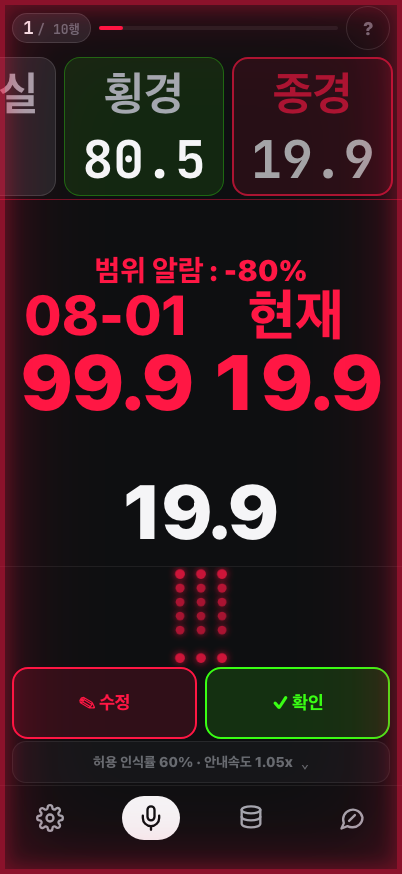
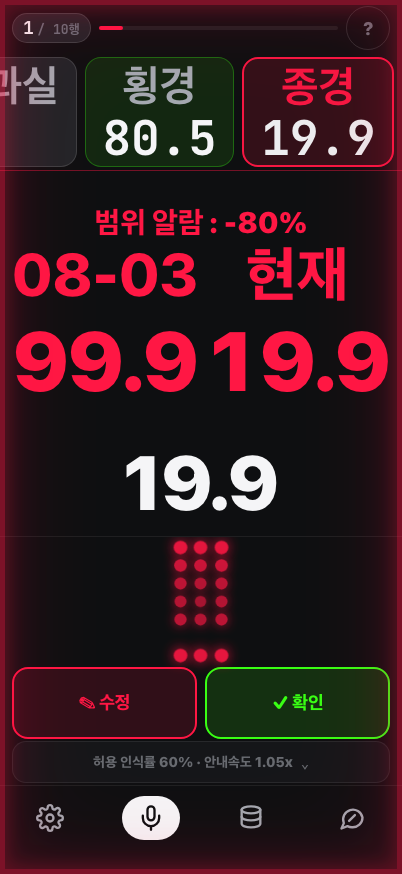
fix(voice): free the alarm compare fit from its floor (§C0)
CenterStage 알람 전용 <style>의 line-height: 1 !important가 글리프 초과(폰트
비례 2~5px > 높이 관용 1px)를 만들어 fitGroups의 높이 판정을 전 배율에서
실패시켰고, 이진탐색이 low=0.25에서 즉시 이탈해 compare 슬롯이 절대 하한
(22/30px)에 갇혀 있었다. 그 강제를 제거해 fit이 살아났다(375에서 값 30→60.6px
· 640 태블릿 9자리 31→48.7px · 402→480 성장 22→22 → 61→72).

column-gap: 0 !important도 함께 제거한다(리뷰② 중대) — 위로 열린 fit은 잉크를
트랙 경계까지 키우므로(경계 추구 평형) 거터가 0이면 등길이 값쌍이 ~2px로
맞붙어 한 숫자로 읽힌다(실캡처 "99.919.9"). 인라인 clamp(4px,1.5vw,12px)가
살아나 등길이 쌍 실측 간격 6.3px@402 / 11.7px@640.

- v044-alarm-compare-fit: characterization → 회귀 가드 승격(파일 자신의 지시).
  핵심 압력 = 값 > 35px(하한 이탈) — 바닥 고정 재발을 유일하게 잡는다
- v0440-alarm-fit: @pending-lineheight 기계 제거, 단언 A·B·C 정식 승격,
  등길이 999→199 케이스 + 잉크 간격 ≥ 4px 오라클 신설
- trend-alert: @pending-c0 제거 (390×568 무스크롤은 fit 배선+1.2 체제 첫 실행)
- 재발 방지 계약 주석: line-height·column-gap 재강제 금지 (CenterStage) ·
  인라인 line-height 무시 현상 해명 (AnomalyAlertPopup, 0건 사유는 미확정 유지)

판정: 기준선 직렬 2회(120P/3F 동일) vs 수정 직렬 2회 — 신규 재현 0 · timeout 0.
08-04의 「즉시 회귀」는 병렬 부하 시그니처(timeout 4건 + 기록된 flaky 줄들)로
재현·설명됐다. 상세: workspace_teamops/deliverables/2026-08-04-survey-011-v0440-C0-fix.md

Claude-Session: https://claude.ai/code/session_01WT7Ad9E1PHj75h9t94DLht

diff --git a/tests/v044-alarm-compare-fit.spec.ts b/tests/v044-alarm-compare-fit.spec.ts
@@ -1,39 +1,24 @@
 /**
- * v0.44.0 A2 — 🔴 **§C0 인수인계 오라클: 알람 카드 compare 슬롯에 fit 배선이 없다.**
+ * v0.44.0 §C0 — 🟢 **정상 회귀 가드로 승격판(2026-08-04). 알람 compare fit이 살아 있는지 잰다.**
  *
- *  ── 왜 이 파일이 있나 ────────────────────────────────────────────────────────
- *  A0가 규명한 근본원인(넘친 것을 넘쳤다고 판정 못함)을 A1이 `fitGroup.ts`에서,
- *  A2가 `useFitScale.ts`에서 닫았다. 그런데 **알람 카드에서는 판정이 정확해져도
- *  값이 줄지 않는다** — `heroLayout.ts`의 두 상수가 fit 변수를 **소비하지 않기 때문이다**:
+ *  ── 이력 ────────────────────────────────────────────────────────────────────
+ *  A2가 「compare 슬롯에 fit 배선이 없다」를 고정하는 characterization으로 만들었고
+ *  (원문: `git log -p` 또는 A0-probe.md §7-4), c0-r1이 배선을 넣은 뒤에도 fit이 **바닥
+ *  (0.25)에 갇혀** 있었다 — 원인은 CenterStage 알람 `<style>`의 `line-height: 1 !important`
+ *  (글리프가 line box를 넘어 만든 초과가 `overflowsHeight`를 전 배율에서 true로 만들어
+ *  이진탐색이 low에서 즉시 이탈). **그 강제를 제거해 §C0가 완결됐고**(2026-08-04),
+ *  characterization 단언을 뒤집어 이 승격판이 됐다.
  *
- *    STATE_TYPE.alarmLabel   = 'max(17px, calc(clamp(22px, min(6.6vw,3.6vh), 36px) * var(--fit-lo,1)))'
- *                                                                                  ↑ 쓴다
- *    STATE_TYPE.compareLabel = 'max(22px, 13.93vw)'   ← 🔴 var(--fit-*) 없음
- *    STATE_TYPE.compareValue = 'max(30px, 19.4vw)'    ← 🔴 var(--fit-*) 없음
+ *  ── 이 파일이 재는 것 (375×667, 값쌍 120.5→100) ─────────────────────────────
+ *   1. compare 값이 배정 폭을 넘지 않는다(잉크 우측 초과 ≤ 0.5px).
+ *   2. 🔑 **compare 값이 절대 하한(30px)에서 떨어져 실제로 커졌다**(> 35px — 실측 60.6px).
+ *      바닥 고정이 재발하면 여기가 red다. 겹침·배정폭 단언(A·B)은 바닥 크기로도
+ *      만족되므로 **이 단언만이 재발을 잡는다**(v0440-alarm-fit 단언C와 같은 원리).
+ *   3. headline이 하한(17px)에 붙어 있지 않다(> 17.5px).
  *
- *  결과(375×667 실측, A2 처방 전후 대조):
- *    - 처방 전: `--fit-lo` **1.12**(첫 단계) · headline **26.89px** · next-value 우측 초과 **+33.344px**
- *    - 처방 후: `--fit-lo` **0.13**(최저 단계) · headline **17px** · 초과 **+33.344px (그대로)**
- *
- *  즉 fit이 초과를 **보게** 되자 단계를 끝까지 내렸는데, 정작 넘치는 `compareValue`는
- *  `--fit-lo`를 안 쓰므로 크기가 안 변했다(19.4vw = 375px에서 72.75px 고정).
- *  🔴 **못 고치는 초과를 보고, 고칠 수 있는 headline만 하한까지 깎은 것이다.**
- *
- *  ── 이 파일이 재는 것 ────────────────────────────────────────────────────────
- *  **현 결함 상태를 그대로 고정하는 characterization test다.**
- *   - **지금**: 초과가 실재하고(> 1px) headline이 하한(17px)에 붙어 있다 → 둘 다 참 → green.
- *   - 🔴 **§C0가 `compareValue`/`compareLabel`에 fit 변수를 배선하면**: compare가 줄어
- *     초과가 해소되고 headline이 하한에서 떨어진다 → 단언이 깨지며 **red** →
- *     **그때가 이 파일을 정상 오라클로 승격하거나 지울 때다**(단언 메시지가 그 지시를 담는다).
- *
- *  🔴 **`test.fail()`을 쓰지 않는다.** 그걸 쓰면 **어떤 실패든** 「예상된 실패」로 green이 된다 —
- *  `boot()`가 시작 버튼을 못 찾거나 `triggerAnomaly`가 타임아웃해도 green이다. 이 harness는
- *  실제로 그렇게 깨진 적이 있다(390×568에서 `text=음성 입력 시작` 클릭 타임아웃 → 402로 띄운 뒤
- *  줄이는 우회를 넣었다). 그러면 §C0 배선이 들어와도 **아무 신호가 안 나는 영구 green**이 된다 —
- *  이 파일이 막으려던 바로 그 실패다. characterization 형태는 harness가 깨지면 **red**가 난다.
- *
- *  이 구조를 쓰는 이유: 말로 적은 제약은 다음 회차에 안 지켜진다(`UI-e2` 교훈).
- *  **오라클이 된 제약만 남는다.** 배선이 들어오는 순간 CI가 알려준다.
+ *  🔴 **`test.fail()`을 쓰지 않는다.** 그걸 쓰면 어떤 실패든 「예상된 실패」로 green이 된다 —
+ *  harness가 깨져도(boot 실패·trigger 타임아웃) 신호가 없는 영구 green이 된다.
+ *  아래 harness 건전성 단언(>0 측정 확인)이 그 경로를 막는다.
  *
  *  ⚠ 기대값은 **리터럴**이다(`STATE_TYPE`을 import하지 않는다). 제품 상수를 빌리면
  *     둘을 같은 diff로 바꿀 때 통과해버려 파손을 감춘다(COMMON §4).
@@ -46,9 +31,8 @@ test.setTimeout(120_000);
 /** `STATE_TYPE.alarmLabel`의 하한. 리터럴로 박는다 — 제품 상수를 import하지 않는다. */
 const ALARM_LABEL_FLOOR_PX = 17;
 
-// 🔴 `@pending-c0` — **의도된 red다. 회귀로 세지 마라.** 제목의 「§C0 대기」는 사람만 읽는다 —
-//    기계가 거르려면 태그가 있어야 한다. 👉 **§C0가 끝나면 이 태그를 뗀다.**
-test('🔴 §C0 대기 — 알람 compare 슬롯에 fit 배선이 없어 headline이 하한에 갇힌다(375×667) @pending-c0', async ({ page }) => {
+// 🟢 §C0 완결(2026-08-04) — `@pending-c0` 태그를 떼고 단언을 뒤집은 승격판이다(위 docstring).
+test('§C0 회귀 가드 — 알람 compare fit이 살아 있다: 안 넘침 · 하한 이탈(375×667)', async ({ page }) => {
   await boot(page, { width: 375, height: 667 });
   await triggerAnomaly(page);
   await page.waitForTimeout(300);
@@ -81,16 +65,18 @@ test('🔴 §C0 대기 — 알람 compare 슬롯에 fit 배선이 없어 headlin
   expect(m.nextValueFontPx, 'next-value를 실제로 측정했다').toBeGreaterThan(0);
   expect(m.nextValueOverflowRightPx, 'next-value 초과를 실제로 측정했다').not.toBeNull();
 
-  // ── 🔴 현 결함 상태 고정 ────────────────────────────────────────────────────
-  // 이 두 단언은 **지금 참이고, §C0 배선이 들어오면 거짓이 된다.** 깨지는 것이 목적이다.
+  // ── 🟢 §C0 완결 상태 가드 (승격판 2026-08-04) ──────────────────────────────
   expect(
     m.nextValueOverflowRightPx!,
-    '🔴 §C0가 compare 슬롯에 fit 변수를 배선하면 이 초과가 사라진다 — '
-    + '그때 이 단언이 red가 나면 정상이다. 이 파일을 정상 오라클로 승격하거나 지워라.',
-  ).toBeGreaterThan(1);
+    'compare 값이 배정 폭을 넘지 않는다(잉크 우측 초과 ≤ 0.5px)',
+  ).toBeLessThanOrEqual(0.5);
+  expect(
+    m.nextValueFontPx,
+    '🔑 compare 값이 절대 하한(30px)에서 떨어져 실제로 커졌다 — 바닥 고정이 재발하면 '
+    + '여기가 red다(겹침·배정폭 단언은 바닥 크기로도 만족되므로 이 단언만이 재발을 잡는다)',
+  ).toBeGreaterThan(35);
   expect(
     m.headlineFontPx,
-    '🔴 §C0 배선이 들어오면 초과가 해소돼 fit이 바닥까지 갈 이유가 없어지고 '
-    + 'headline이 하한에서 떨어진다 — 그때 이 단언이 red가 나면 정상이다.',
-  ).toBeLessThanOrEqual(ALARM_LABEL_FLOOR_PX + 0.5);
+    'headline이 하한에 붙어 있지 않다',
+  ).toBeGreaterThan(ALARM_LABEL_FLOOR_PX + 0.5);
 });

diff --git a/src/components/voice/CenterStage.tsx b/src/components/voice/CenterStage.tsx
@@ -14,7 +14,22 @@ import { T } from '../../tokens';
 
 /** 금지된 알람 카드 내부 구현에 레이아웃 책임을 다시 섞지 않고, 중앙 stage가 공개 testid 계약을
  *  2열(라벨 1행 / 값 2행)로 배치한다. 인라인 style보다 우선해야 해서 이 범위 안에서만 `!important`를
- *  쓴다. 값/라벨 타이포는 `STATE_TYPE`의 열린 폭 비례 계약이 계속 맡는다. */
+ *  쓴다. 값/라벨 타이포는 `STATE_TYPE`의 열린 폭 비례 계약이 계속 맡는다.
+ *
+ *  🔴 **`line-height`를 이 블록에 다시 넣지 마라**(§C0, 2026-08-04). 종전 `line-height: 1
+ *  !important`가 인라인 1.2(임계 1.15 위 — AnomalyAlertPopup `COMPARE_LINE_HEIGHT`)를 덮어
+ *  글리프가 line box를 넘었고, 그 초과가 `useFitGroup`의 높이 판정을 전 배율에서 실패시켜
+ *  compare 슬롯이 절대 하한(22/30px)에 갇혔다(제보 8건 화면의 잔여 원인). 제거로 fit이
+ *  살아났다(375에서 값 30→60.6px, 오라클: v044-alarm-compare-fit · v0440-alarm-fit 단언C).
+ *
+ *  🔴 **`column-gap` 강제도 두지 마라**(리뷰② 실증, 2026-08-04). fit은 잉크를 트랙 경계까지
+ *  키우므로(경계 추구 평형) 거터가 0이면 등길이 값쌍이 ~2px 간격으로 맞붙어 한 숫자로
+ *  읽힌다(실캡처 "99.919.9"). 팝업 인라인 `columnGap: clamp(4px,1.5vw,12px)`가 최소 간격을
+ *  보장한다. 오라클: v0440-alarm-fit 단언A의 잉크 간격 ≥ 4px.
+ *
+ *  ⚠ 이 `<style>`은 알람 분기에서만 DOM에 존재한다 — 스타일 조사는 알람을 띄운 상태에서
+ *  하라. (08-03 순회가 0건을 본 이유는 미확정이다 — 알람 밖 순회였거나 CORS 차단 시트에서
+ *  순회가 끊겼을 수 있다. A0-probe.md §8-4) */
 const ALARM_TWO_COLUMN_LAYOUT = `
   [data-central-state="alarm"] [data-testid="anomaly-alert"] {
     padding-block: 0 !important;
@@ -25,7 +40,6 @@ const ALARM_TWO_COLUMN_LAYOUT = `
     grid-template-columns: repeat(2, minmax(0, 1fr)) !important;
     grid-template-rows: auto auto !important;
     width: 100% !important;
-    column-gap: 0 !important;
     row-gap: 0 !important;
     overflow: hidden !important;
   }
@@ -50,7 +64,6 @@ const ALARM_TWO_COLUMN_LAYOUT = `
     justify-self: center !important;
     text-align: center !important;
     color: ${T.red} !important;
-    line-height: 1 !important;
   }
 `;
 

diff --git a/src/components/voice/AnomalyAlertPopup.tsx b/src/components/voice/AnomalyAlertPopup.tsx
@@ -174,17 +174,15 @@ function formatCompareDate(raw?: string): string {
  *
  *  ⚠ **`ExitConfirmInline.tsx:19` · `VoiceHero.tsx:341`이 이미 1.15를 쓴다** — 같은 계열이다.
  *
- *  🔴 **이 선언은 현재 런타임에서 효과가 없다. 그래도 되돌리지 않았다.**
- *  이 4개 요소(`anomaly-{prev,next}-{label,value}`)에서 **인라인 `line-height`가 무시되는
- *  현상**이 있다 — DOM `style` 속성과 CSSOM에는 `1.2`가 들어 있는데 computed는 `font-size`와
- *  같은 값(ratio 1.0)으로 나오고, `!important`를 붙일 때만 적용된다. 원인 **미확정**이며
- *  후보 10가지를 소거했다(CSS 규칙 0건 · 폰트 · 굵기 · `font-size` 형태 8종 · 애니메이션 0건 ·
- *  적용 순서/시점). 🔑 **같은 `style` 문자열의 `cloneNode` 복제본은 정상 작동한다.**
- *  전체 기록과 다음 조사 출발점: `Deliverables/2026-08-03-survey-011-v0440-A0-probe.md` §8.
- *
- *  **되돌리지 않은 이유:** 값 `1.2`는 실측 임계(1.15) 기준으로 옳고 **해가 없다**(효과가 없을
- *  뿐 회귀도 없다 — 블래스트 실측 완료). 되돌리면 다음 사람이 `1.02`를 보고 **같은 조사를
- *  처음부터 반복한다.** 무시 현상이 풀리는 순간 이 값이 그대로 살아난다.
+ *  🟢 **「인라인 `line-height` 무시 현상」은 해명됐다**(2026-08-04, §C0). 버그가 아니라
+ *  CenterStage 알람 전용 `<style>`의 `line-height: 1 !important`가 이 인라인 선언을 덮고
+ *  있었다(08-04 알람 재현 상태의 순회가 그 규칙을 실측으로 찾았다). `cloneNode` 복제본이
+ *  정상이었던 것도 `[data-central-state="alarm"]` 조상 셀렉터를 벗어났기 때문이다. 강제를
+ *  제거해 이 선언이 유효해졌고 compare fit 바닥 고정도 함께 풀렸다(375에서 값 30→60.6px).
+ *  ⚠ 08-03 순회가 0건을 본 이유는 미확정이다 — 알람 밖 순회였거나 CORS 차단 시트
+ *  (Google Fonts)에서 순회가 끊겼을 수 있다(A0-probe.md §8-4 후보1). 조사는 증상 재현
+ *  상태에서, 시트 개수·CORS 차단 여부를 함께 찍어라(TEAMOPS-69).
+ *  조사 원문: `Deliverables/2026-08-03-survey-011-v0440-A0-probe.md` §8.
  *
  *  ⚠ **이 선언이 실제로 먹는지는 소스가 아니라 `getComputedStyle`로 재라.** */
 const COMPARE_LINE_HEIGHT = 1.2;

diff --git a/tests/trend-alert.spec.ts b/tests/trend-alert.spec.ts
@@ -354,11 +354,14 @@ test('이상치(증가) 값 → 알림 TTS(advance 중단) → "확인" → 값 
   expect(events.filter((e) => e.extra === 'trend_alert_corrected')).toHaveLength(0);
 });
 
-// 🔴 `@pending-c0` — **의도된 red다. 회귀로 세지 마라.** §C0 배선이 완성되면 통과한다.
-//    c0-r1이 고정 px 단언(`toBeCloseTo(56/78)`)을 규칙 2에 맞게 뒤집어 놓은 것이라
-//    지금은 §C0 미완 때문에 실패한다. 👉 **§C0가 끝나면 이 태그를 뗀다.**
-//    태그가 없으면 다음 회차가 회귀로 오분류한다 — 실제로 08-04 판정에서 그럴 뻔했다.
-test('[ALERT-COMPARE-1] 2열 비교 — 안 넘침·좌우 동일 크기(§C5-c)·상한 없음, 390×568 무넘침 @pending-c0', async ({ page }) => {
+// 🟢 §C0 완결(2026-08-04)로 `@pending-c0` 태그를 뗐다 — 정상 회귀 가드다.
+//    바닥 고정의 원인은 CenterStage 알람 `<style>`의 `line-height: 1 !important`였다
+//    (글리프 초과가 fit 높이 판정을 전 배율에서 실패시켰다). 그 강제를 제거해 통과한다.
+//    ⚠ 이 테스트의 390×568 무스크롤 단언(아래 narrow 블록)은 **fit 배선 + line-height 1.2
+//    체제에서는 이번(08-04)이 첫 실행**이다 — c0-r1 병합~08-04 사이엔 바닥 고정이 402→480
+//    무성장 단언을 먼저 죽여 도달 불가였다(그 전 체제에선 실행 이력 있음). 여기서 red가
+//    나면 회귀 단정 전에 git log로 어느 체제의 이력인지 확인하라.
+test('[ALERT-COMPARE-1] 2열 비교 — 안 넘침·좌우 동일 크기(§C5-c)·상한 없음, 390×568 무넘침', async ({ page }) => {
   await page.setViewportSize({ width: 402, height: 874 });
   await setupAndStart(page, {
     sheetRows: [[PREV_ROUND, '이원창', '1', '1', '100.0', '99.9']],
